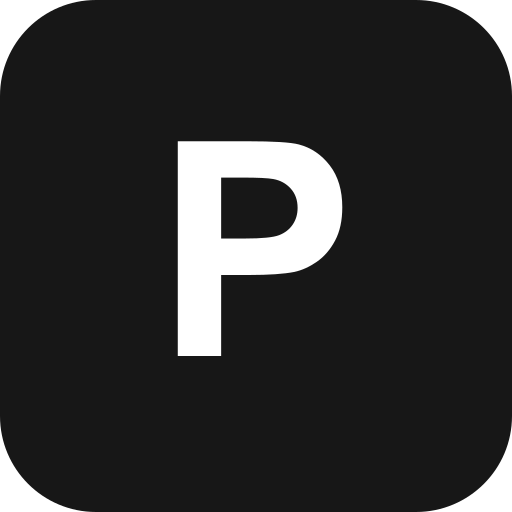
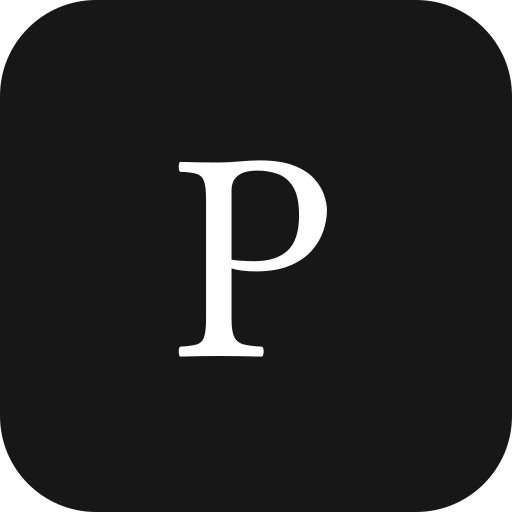
feat(ui): implement dropdown menu, integrate Libertinus_Math font, and add searchable contacts/notifications
- Add Menu icon and toggleable dropdown with click‑outside handling
- Introduce Libertinus_Math font variable and apply it to headings
- Make contacts and notifications popups searchable with sticky headers
- Append dummy contacts for UI testing
- Extend SQLite dev panel to include messages table

Changed region(s): [[0.3438, 0.25, 0.6875, 0.7188]]

diff --git a/client/app/chat/page.tsx b/client/app/chat/page.tsx
@@ -1,8 +1,8 @@
 "use client";
 
-import { Bell, LogOut, MessageCircle, QrCode, Users } from "lucide-react";
+import { Bell, LogOut, Menu, MessageCircle, QrCode, Users } from "lucide-react";
 import { useRouter, useSearchParams } from "next/navigation";
-import { Suspense, useEffect, useState } from "react";
+import { Suspense, useEffect, useRef, useState } from "react";
 import { ChatPane } from "@/components/chat-pane";
 import { ContactsPopup } from "@/components/contacts-popup";
 import { Popup } from "@/components/popup";
@@ -63,6 +63,8 @@ export default function MockupPage() {
   const [needsNotificationPrompt, setNeedsNotificationPrompt] = useState(false);
   const [requestCount, setRequestCount] = useState(0);
   const [conversations, setConversations] = useState<(Conversation & { username: string })[]>([]);
+  const [menuOpen, setMenuOpen] = useState(false);
+  const menuRef = useRef<HTMLDivElement>(null);
 
   async function refreshConversations() {
     if (!user) return;
@@ -80,6 +82,17 @@ export default function MockupPage() {
     refreshConversations();
     // eslint-disable-next-line react-hooks/exhaustive-deps
   }, [user]);
+
+  useEffect(() => {
+    if (!menuOpen) return;
+    function handleClickOutside(e: MouseEvent) {
+      if (menuRef.current && !menuRef.current.contains(e.target as Node)) {
+        setMenuOpen(false);
+      }
+    }
+    document.addEventListener("mousedown", handleClickOutside);
+    return () => document.removeEventListener("mousedown", handleClickOutside);
+  }, [menuOpen]);
 
   // Re-fetch conversations (including lastMessage) whenever the live
   // in-memory message store changes for any peer — the sidebar needs to
@@ -157,37 +170,62 @@ export default function MockupPage() {
         }`}
       >
         <div className="sticky top-0 z-10 flex items-center justify-between border-b border-black/10 bg-background/30 px-8 py-6 shadow-xl backdrop-blur-lg dark:border-white/10">
-          <h1 className="text-xl font-semibold text-black dark:text-zinc-50">Chats</h1>
-          <div className="flex items-center gap-2">
+          <h1 className="text-xl font-semibold text-black dark:text-zinc-50" style={{ fontFamily: "var(--font-libertinus-math)" }}>Primssg</h1>
+          <div ref={menuRef} className="relative">
             <button
-              onClick={() => {
-                setHighlightNotificationId(null);
-                setShowRequests(true);
-              }}
-              aria-label="Notifications"
+              onClick={() => setMenuOpen((v) => !v)}
+              aria-label="Menu"
               className="relative flex h-9 w-9 items-center justify-center rounded-full border border-black/10 text-black dark:border-white/10 dark:text-zinc-50"
             >
-              <Bell className="h-4 w-4" />
+              <Menu className="h-4 w-4" />
               {requestCount > 0 && (
                 <span className="absolute -top-1 -right-1 flex h-4 min-w-4 items-center justify-center rounded-full bg-red-600 px-1 text-[10px] font-medium text-white">
                   {requestCount > 9 ? "9+" : requestCount}
                 </span>
               )}
             </button>
-            <button
-              onClick={() => setShowQr(true)}
-              aria-label="Show my QR code"
-              className="flex h-9 w-9 items-center justify-center rounded-full border border-black/10 text-black dark:border-white/10 dark:text-zinc-50"
-            >
-              <QrCode className="h-4 w-4" />
-            </button>
-            <button
-              onClick={() => setShowContacts(true)}
-              aria-label="Contacts"
-              className="flex h-9 w-9 items-center justify-center rounded-full border border-black/10 text-black dark:border-white/10 dark:text-zinc-50"
-            >
-              <Users className="h-4 w-4" />
-            </button>
+            {menuOpen && (
+              <div className="absolute top-full right-0 mt-2 flex w-48 flex-col overflow-hidden rounded-xl border border-black/10 bg-white py-1 shadow-xl dark:border-white/10 dark:bg-zinc-900">
+                <button
+                  onClick={() => {
+                    setMenuOpen(false);
+                    setHighlightNotificationId(null);
+                    setShowRequests(true);
+                  }}
+                  className="flex items-center justify-between gap-2 px-3 py-2 text-left text-sm text-black hover:bg-black/5 dark:text-zinc-50 dark:hover:bg-white/10"
+                >
+                  <span className="flex items-center gap-2">
+                    <Bell className="h-4 w-4" />
+                    Notifications
+                  </span>
+                  {requestCount > 0 && (
+                    <span className="flex h-4 min-w-4 items-center justify-center rounded-full bg-red-600 px-1 text-[10px] font-medium text-white">
+                      {requestCount > 9 ? "9+" : requestCount}
+                    </span>
+                  )}
+                </button>
+                <button
+                  onClick={() => {
+                    setMenuOpen(false);
+                    setShowQr(true);
+                  }}
+                  className="flex items-center gap-2 px-3 py-2 text-left text-sm text-black hover:bg-black/5 dark:text-zinc-50 dark:hover:bg-white/10"
+                >
+                  <QrCode className="h-4 w-4" />
+                  QR Code
+                </button>
+                <button
+                  onClick={() => {
+                    setMenuOpen(false);
+                    setShowContacts(true);
+                  }}
+                  className="flex items-center gap-2 px-3 py-2 text-left text-sm text-black hover:bg-black/5 dark:text-zinc-50 dark:hover:bg-white/10"
+                >
+                  <Users className="h-4 w-4" />
+                  Contacts
+                </button>
+              </div>
+            )}
           </div>
         </div>
 

diff --git a/client/components/requests-popup.tsx b/client/components/requests-popup.tsx
@@ -1,5 +1,6 @@
 "use client";
 
+import { Search } from "lucide-react";
 import { useEffect, useRef, useState } from "react";
 import { acceptContactRequest, fetchContactRequests, type ContactRequestNotification, type User } from "@/lib/api";
 import { addContact, syncAcceptedContact } from "@/lib/contacts";
@@ -18,10 +19,12 @@ export function RequestsPopup({
 }) {
   const [notifications, setNotifications] = useState<ContactRequestNotification[]>([]);
   const [acceptingId, setAcceptingId] = useState<string | null>(null);
+  const [query, setQuery] = useState("");
   const highlightRef = useRef<HTMLLIElement>(null);
 
   useEffect(() => {
     if (!open) return;
+    setQuery("");
     fetchContactRequests(user.username).then((rows) => {
       setNotifications(rows);
       // An outgoing request may have been accepted while this client wasn't
@@ -75,48 +78,66 @@ export function RequestsPopup({
       : `Contact request sent to ${n.data.otherUsername}.`;
   }
 
+  const filtered = notifications.filter((n) => n.data.otherUsername.toLowerCase().includes(query.toLowerCase()));
+
   return (
     <Popup open={open} onClose={onClose} title="Notifications" buttons={[]}>
-      {notifications.length === 0 ? (
-        <p className="text-sm text-zinc-500">No notifications.</p>
-      ) : (
-        <ul className="flex flex-col gap-2">
-          {notifications.map((n) => (
-            <li
-              key={n.id}
-              ref={n.id === highlightId ? highlightRef : undefined}
-              className={`flex items-center justify-between gap-3 rounded-lg border px-4 py-3 transition-colors ${
-                n.id === highlightId
-                  ? "border-orange-500 bg-orange-500/10"
-                  : "border-black/10 dark:border-white/10"
-              }`}
-            >
-              <div className="flex flex-col gap-0.5">
-                <span className="font-medium text-black dark:text-zinc-50">{n.data.otherUsername}</span>
-                <span className="text-sm text-zinc-500">{description(n)}</span>
-              </div>
-              {n.data.direction === "incoming" && n.status === "pending" ? (
-                <button
-                  onClick={() => handleAccept(n)}
-                  disabled={acceptingId === n.id}
-                  className="shrink-0 rounded-full px-3 py-1.5 text-sm font-medium text-white disabled:opacity-50"
-                  style={{ backgroundColor: "#16a34a" }}
-                >
-                  {acceptingId === n.id ? "Accepting…" : "Accept"}
-                </button>
-              ) : (
-                <span
-                  className={`shrink-0 text-sm ${
-                    n.status === "accepted" ? "text-green-600 dark:text-green-500" : "text-zinc-500"
-                  }`}
-                >
-                  {n.status === "accepted" ? "Accepted" : "Pending"}
-                </span>
-              )}
-            </li>
-          ))}
-        </ul>
-      )}
+      <div className="flex flex-col gap-4">
+        <div className="sticky -top-6 z-10 -mx-6 -mt-6 bg-background px-6 pt-6 pb-4">
+          <div className="flex items-center gap-2 rounded-full border border-black/10 px-4 py-2 dark:border-white/10">
+            <Search className="h-4 w-4 shrink-0 text-zinc-500" />
+            <input
+              value={query}
+              onChange={(e) => setQuery(e.target.value)}
+              placeholder="Search notifications"
+              className="w-full bg-transparent text-sm text-black outline-none placeholder:text-zinc-500 dark:text-zinc-50"
+            />
+          </div>
+        </div>
+
+        {filtered.length === 0 ? (
+          <p className="text-sm text-zinc-500">
+            {notifications.length === 0 ? "No notifications." : "No notifications match your search."}
+          </p>
+        ) : (
+          <ul className="flex flex-col gap-2">
+            {filtered.map((n) => (
+              <li
+                key={n.id}
+                ref={n.id === highlightId ? highlightRef : undefined}
+                className={`flex items-center justify-between gap-3 rounded-lg border px-4 py-3 transition-colors ${
+                  n.id === highlightId
+                    ? "border-orange-500 bg-orange-500/10"
+                    : "border-black/10 dark:border-white/10"
+                }`}
+              >
+                <div className="flex flex-col gap-0.5">
+                  <span className="font-medium text-black dark:text-zinc-50">{n.data.otherUsername}</span>
+                  <span className="text-sm text-zinc-500">{description(n)}</span>
+                </div>
+                {n.data.direction === "incoming" && n.status === "pending" ? (
+                  <button
+                    onClick={() => handleAccept(n)}
+                    disabled={acceptingId === n.id}
+                    className="shrink-0 rounded-full px-3 py-1.5 text-sm font-medium text-white disabled:opacity-50"
+                    style={{ backgroundColor: "#16a34a" }}
+                  >
+                    {acceptingId === n.id ? "Accepting…" : "Accept"}
+                  </button>
+                ) : (
+                  <span
+                    className={`shrink-0 text-sm ${
+                      n.status === "accepted" ? "text-green-600 dark:text-green-500" : "text-zinc-500"
+                    }`}
+                  >
+                    {n.status === "accepted" ? "Accepted" : "Pending"}
+                  </span>
+                )}
+              </li>
+            ))}
+          </ul>
+        )}
+      </div>
     </Popup>
   );
 }

diff --git a/client/components/contacts-popup.tsx b/client/components/contacts-popup.tsx
@@ -23,7 +23,17 @@ export function ContactsPopup({
   useEffect(() => {
     if (!open) return;
     setQuery("");
-    listContacts(user.id).then(setContacts);
+    // TEMP: dummy data appended to visually check the sticky search bar — remove before merging.
+    listContacts(user.id).then((real) => {
+      const dummy: Contact[] = Array.from({ length: 30 }, (_, i) => ({
+        ownerId: user.id,
+        id: `dummy-${i}`,
+        username: `dummy-user-${i}`,
+        mlKemPublicKey: "",
+        acceptedAt: new Date().toISOString(),
+      }));
+      setContacts([...real, ...dummy]);
+    });
   }, [open, user]);
 
   const filtered = contacts.filter((c) => c.username.toLowerCase().includes(query.toLowerCase()));
@@ -31,14 +41,16 @@ export function ContactsPopup({
   return (
     <Popup open={open} onClose={onClose} title="Contacts" buttons={[]}>
       <div className="flex flex-col gap-4">
-        <div className="flex items-center gap-2 rounded-full border border-black/10 px-4 py-2 dark:border-white/10">
-          <Search className="h-4 w-4 shrink-0 text-zinc-500" />
-          <input
-            value={query}
-            onChange={(e) => setQuery(e.target.value)}
-            placeholder="Search contacts"
-            className="w-full bg-transparent text-sm text-black outline-none placeholder:text-zinc-500 dark:text-zinc-50"
-          />
+        <div className="sticky -top-6 z-10 -mx-6 -mt-6 bg-background px-6 pt-6 pb-4">
+          <div className="flex items-center gap-2 rounded-full border border-black/10 px-4 py-2 dark:border-white/10">
+            <Search className="h-4 w-4 shrink-0 text-zinc-500" />
+            <input
+              value={query}
+              onChange={(e) => setQuery(e.target.value)}
+              placeholder="Search contacts"
+              className="w-full bg-transparent text-sm text-black outline-none placeholder:text-zinc-500 dark:text-zinc-50"
+            />
+          </div>
         </div>
 
         {filtered.length === 0 ? (

diff --git a/client/app/layout.tsx b/client/app/layout.tsx
@@ -1,5 +1,5 @@
 import type { Metadata } from "next";
-import { Geist, Geist_Mono } from "next/font/google";
+import { Geist, Geist_Mono, Libertinus_Math } from "next/font/google";
 import "./globals.css";
 import { DevPanel } from "@/components/dev-panel";
 import { MessageStatusListener } from "./message-status-listener";
@@ -14,6 +14,12 @@ const geistSans = Geist({
 const geistMono = Geist_Mono({
   variable: "--font-geist-mono",
   subsets: ["latin"],
+});
+
+const libertinusMath = Libertinus_Math({
+  variable: "--font-libertinus-math",
+  subsets: ["latin"],
+  weight: "400",
 });
 
 export const metadata: Metadata = {
@@ -38,7 +44,7 @@ export default function RootLayout({
   return (
     <html
       lang="en"
-      className={`${geistSans.variable} ${geistMono.variable} h-full antialiased`}
+      className={`${geistSans.variable} ${geistMono.variable} ${libertinusMath.variable} h-full antialiased`}
     >
       <body className="h-full flex flex-col">
         <ServiceWorkerRegistration />

diff --git a/client/components/chat-pane.tsx b/client/components/chat-pane.tsx
@@ -127,7 +127,7 @@ export function ChatPane({
               <ArrowLeft className="h-4 w-4" />
             </button>
           )}
-          <h1 className="text-base font-semibold text-black dark:text-zinc-50">{username}</h1>
+          <h1 className="text-base font-semibold text-black dark:text-zinc-50" style={{ fontFamily: "var(--font-libertinus-math)" }}>{username}</h1>
         </div>
         <span
           aria-label={connected ? "Connected" : "Connecting…"}

diff --git a/client/components/dev-panel-sqlite-tab.tsx b/client/components/dev-panel-sqlite-tab.tsx
@@ -43,7 +43,7 @@ export function SqliteTab() {
       </p>
 
       <div className="flex flex-wrap gap-2">
-        {["keys", "contacts", "conversations"].map((table) => (
+        {["keys", "contacts", "conversations", "messages"].map((table) => (
           <button
             key={table}
             onClick={() => setSql(`SELECT * FROM ${table}`)}
